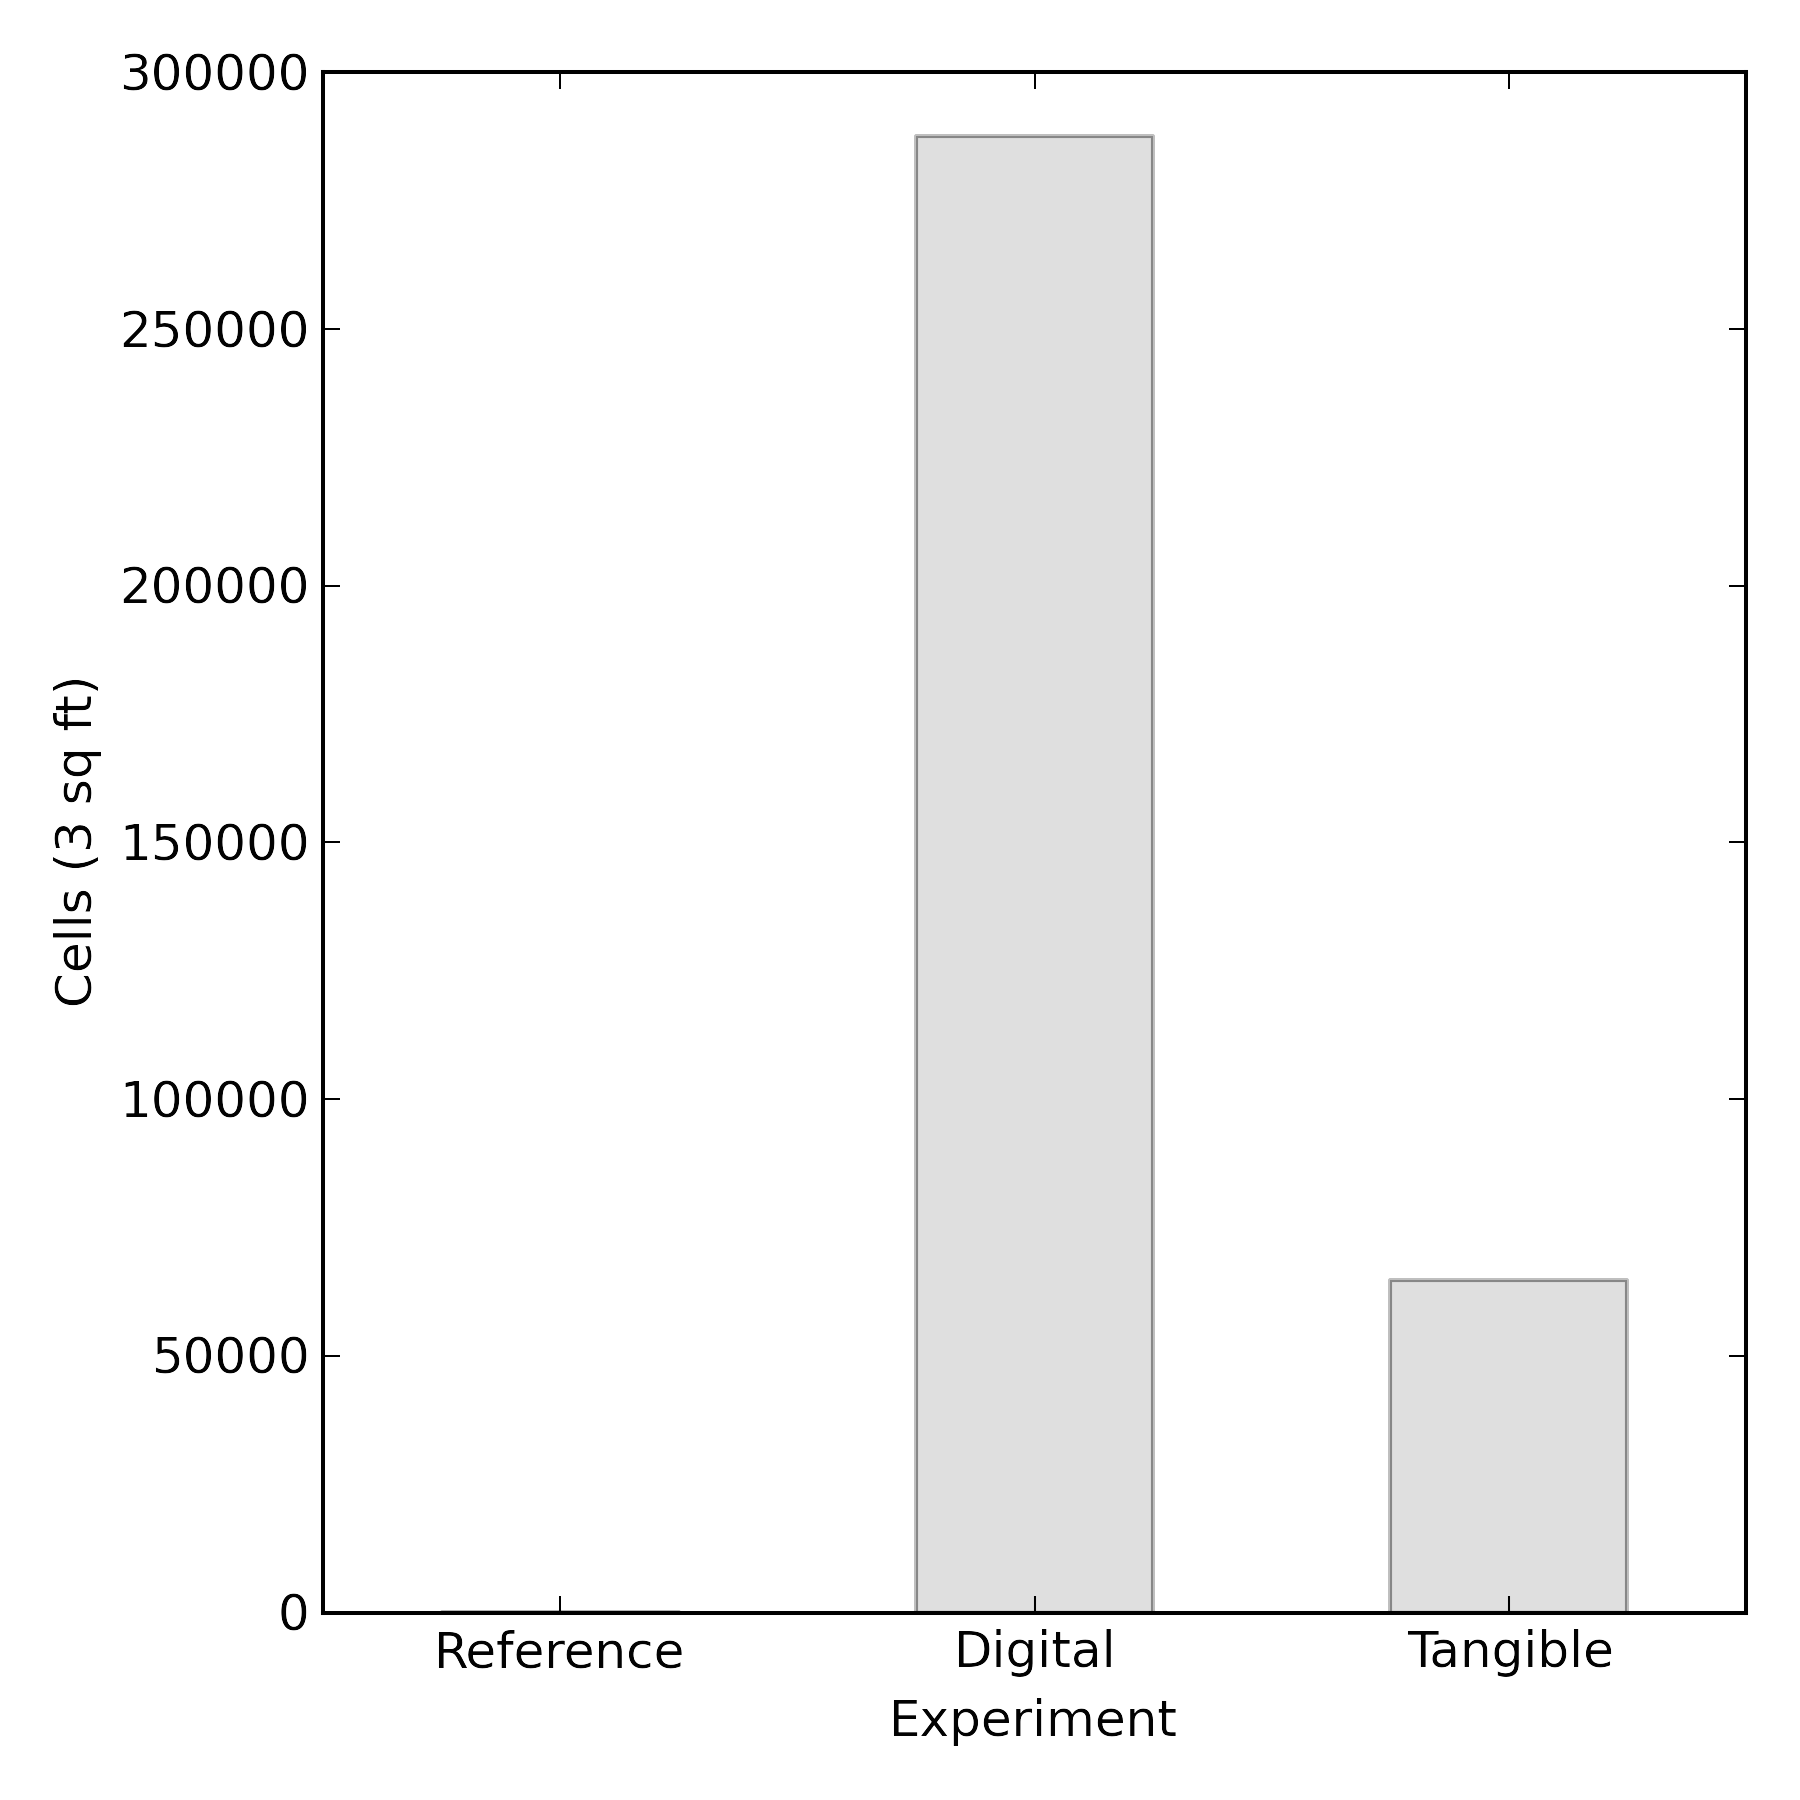
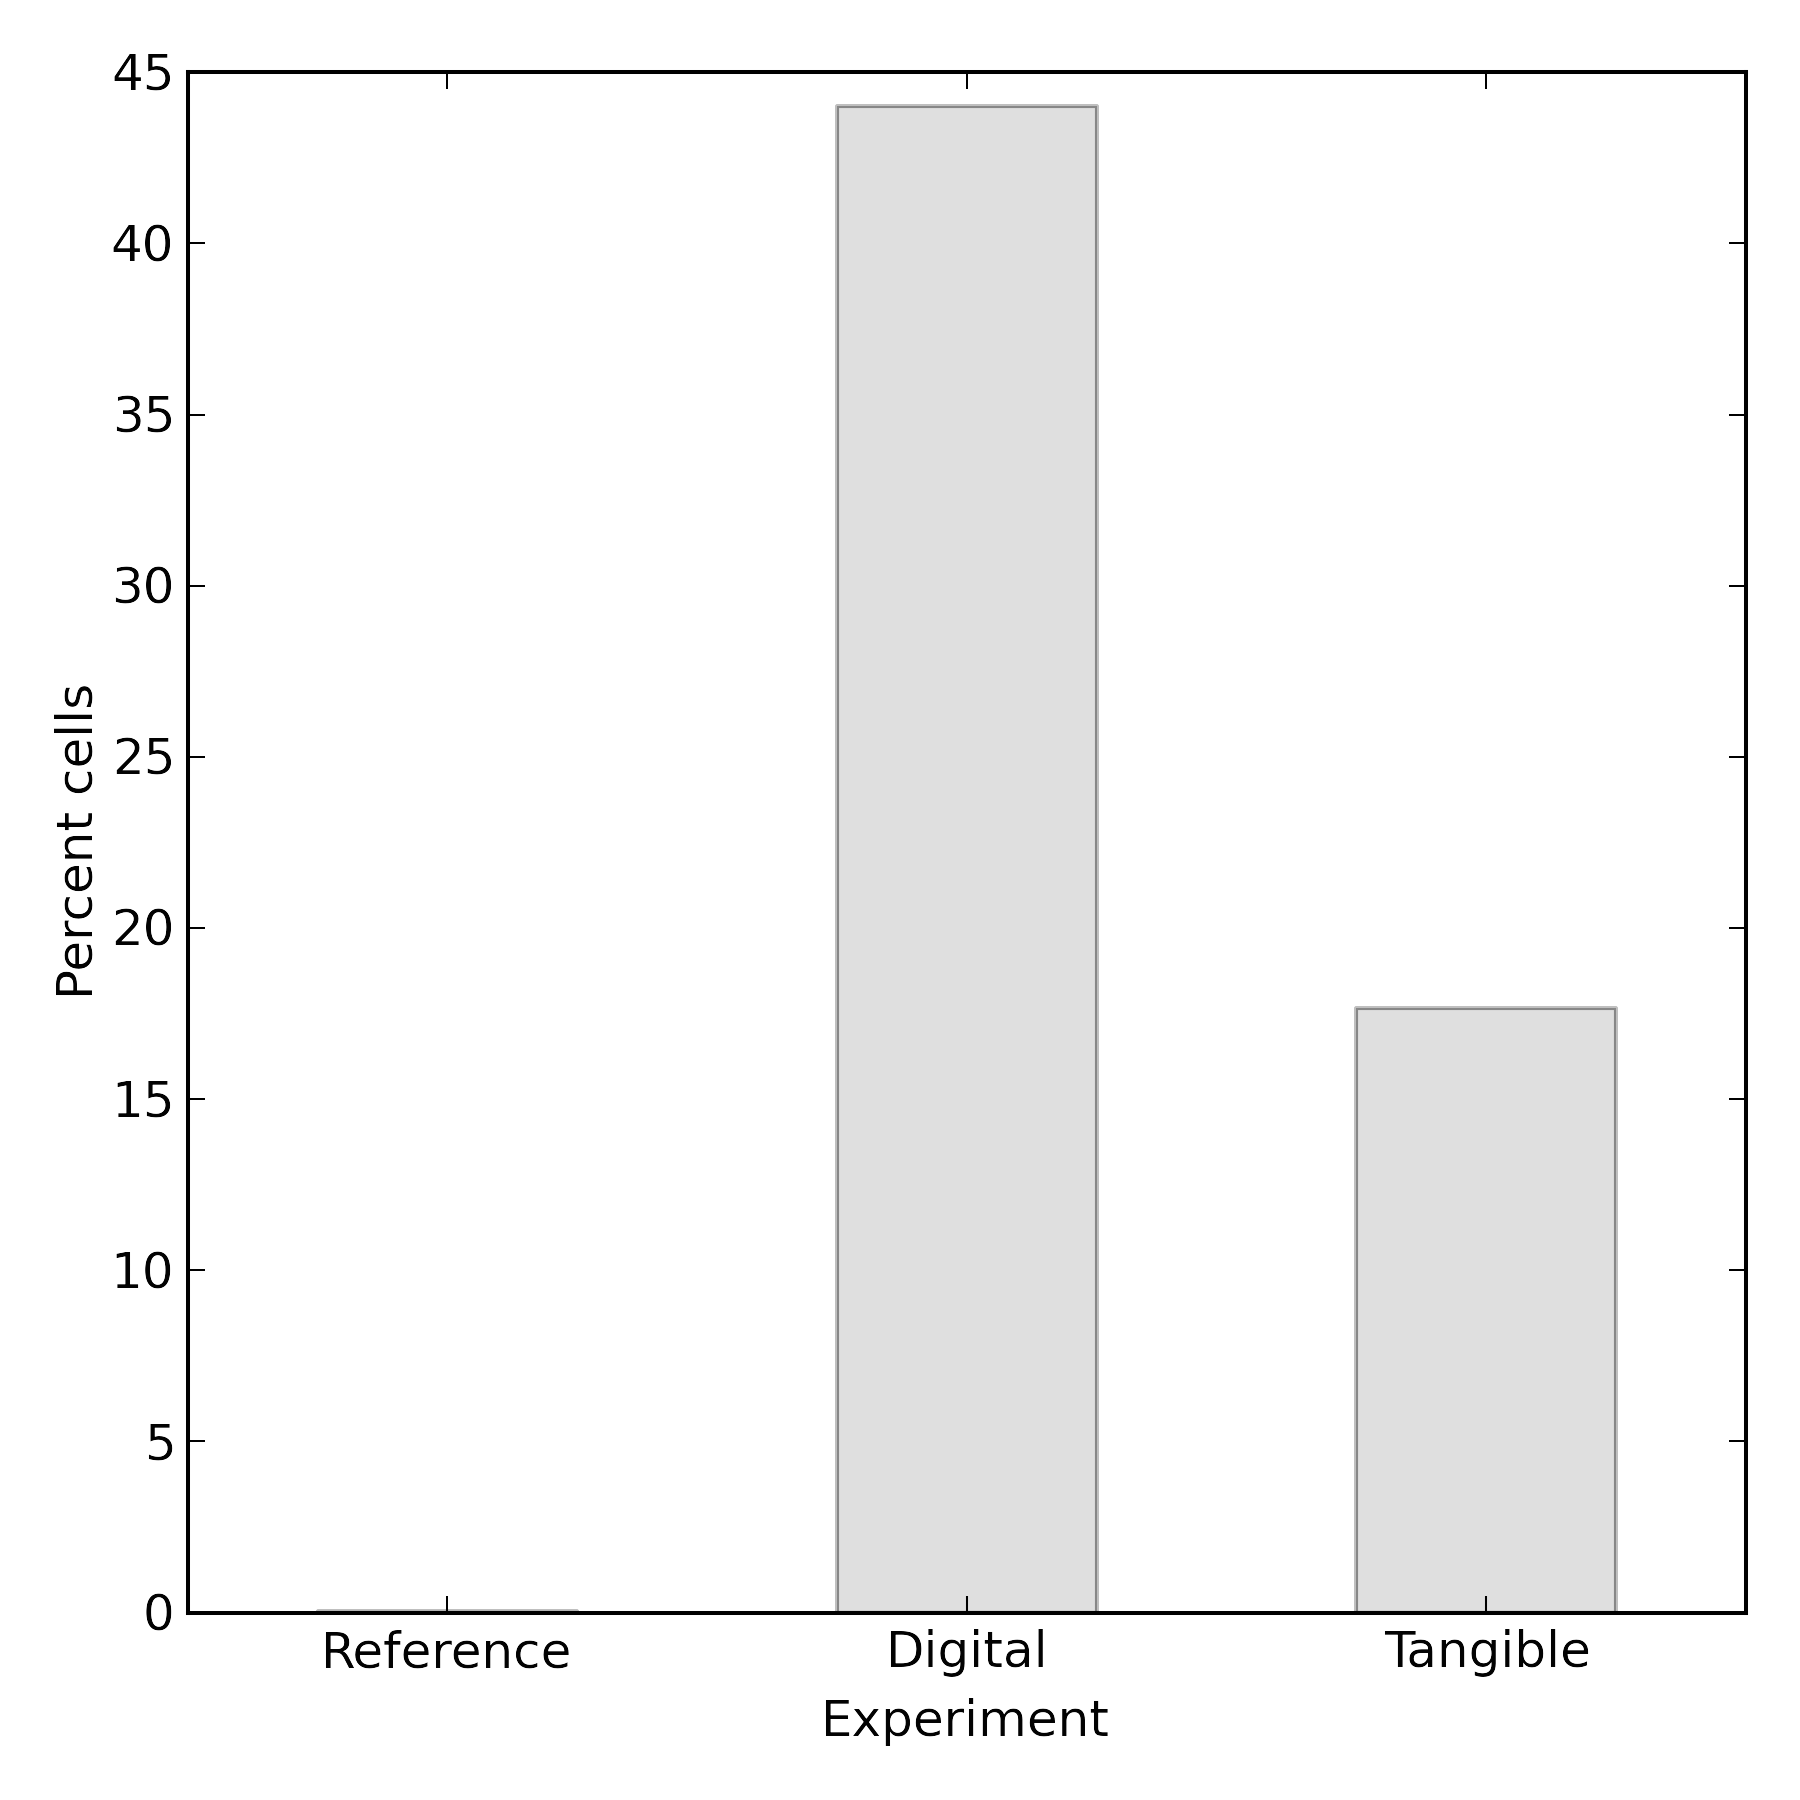
updated graphs

diff --git a/analysis.py b/analysis.py
@@ -53,7 +53,7 @@ height = int(info.rows)
 
 
 def main():
-    analyze_models()
+    #analyze_models()
     cells, distance = analyze_series()
     plot_series(cells, distance)
     atexit.register(cleanup)
@@ -130,11 +130,14 @@ def analyze_series():
     cells = []
     distance = []
 
-    # compute number of cells with depressions in the reference
+    # compute percentage of cells with depressions in the reference
     univar_ref_cells = gscript.parse_command('r.univar', map="depressions@PERMANENT", separator='newline', flags='g')
-    reference_cells = float(univar_ref_cells['sum'])
-    cells.append(reference_cells)
-    print 'cells with depressions in reference: ' + str(reference_cells)
+    total_count = float(univar_ref_cells['cells'])
+    null_count = float(univar_ref_cells['null_cells'])
+    depression_count = total_count - null_count
+    reference_percent = depression_count/total_count*100
+    cells.append(reference_percent)
+    print 'percentage cells with depressions in reference: ' + str(reference_percent)
 
     for i in range(1, iterator):
 
@@ -253,16 +256,18 @@ def analyze_series():
         gscript.run_command('d.mon', stop=driver)
 
         # compute number of cells with depressions
-        univar = gscript.parse_command('r.univar', map=depressions_list, separator='newline', flags='g')
-        depression_cells = float(univar['sum'])
-        cells.append(depression_cells)
-        print 'cells with depressions in experiment'+str(i)+': ' + str(depression_cells)
+        univar = gscript.parse_command('r.univar', map=sum_depressions, separator='newline', flags='g')
+        nulls = float(univar['null_cells'])
+        depression_cells = total_count - nulls
+        depression_percent = depression_cells/total_count*100
+        cells.append(depression_percent)
+        print 'percent of cells with depressions in experiment '+str(i)+': ' + str(depression_percent)
 
     return cells, distance
 
 
 def plot_series(cells, distance):
-    """plot the number cells with depressions and the minumum distance of mean concentrated flow points from the reference for each experiment"""
+    """plot the percent of cells with depressions and the minumum distance of mean concentrated flow points from the reference for each experiment"""
 
     depression_plot = os.path.join(series, "depression_cells.png")
     distance_plot = os.path.join(series, "distance.png")
@@ -275,8 +280,8 @@ def plot_series(cells, distance):
     plt.bar(x, y, color="gray", width=0.5, align='center', alpha=0.5, antialiased=True)
     plt.xticks(x, labels)
     plt.xlabel('Experiment')
-    plt.ylabel('Cells (3 sq ft)')
-    # plt.title('Cells with depressions for each experiment')
+    plt.ylabel('Percent cells')
+    # plt.title('Percent of cells with depressions for each experiment')
     plt.savefig(depression_plot, dpi=300, transparent=True)
     plt.close()
 
@@ -288,7 +293,7 @@ def plot_series(cells, distance):
     plt.bar(x, y, color="gray", width=0.5, align='center', alpha=0.5, antialiased=True)
     plt.xticks(x, labels)
     plt.xlabel('Experiment')
-    plt.ylabel('Distance (ft)')
+    plt.ylabel('Cumulative distance (ft)')
     # plt.title('Sum of minimum distance of concentrated flow from reference for each experiment')
     plt.savefig(distance_plot, dpi=300, transparent=True)
     plt.close()
